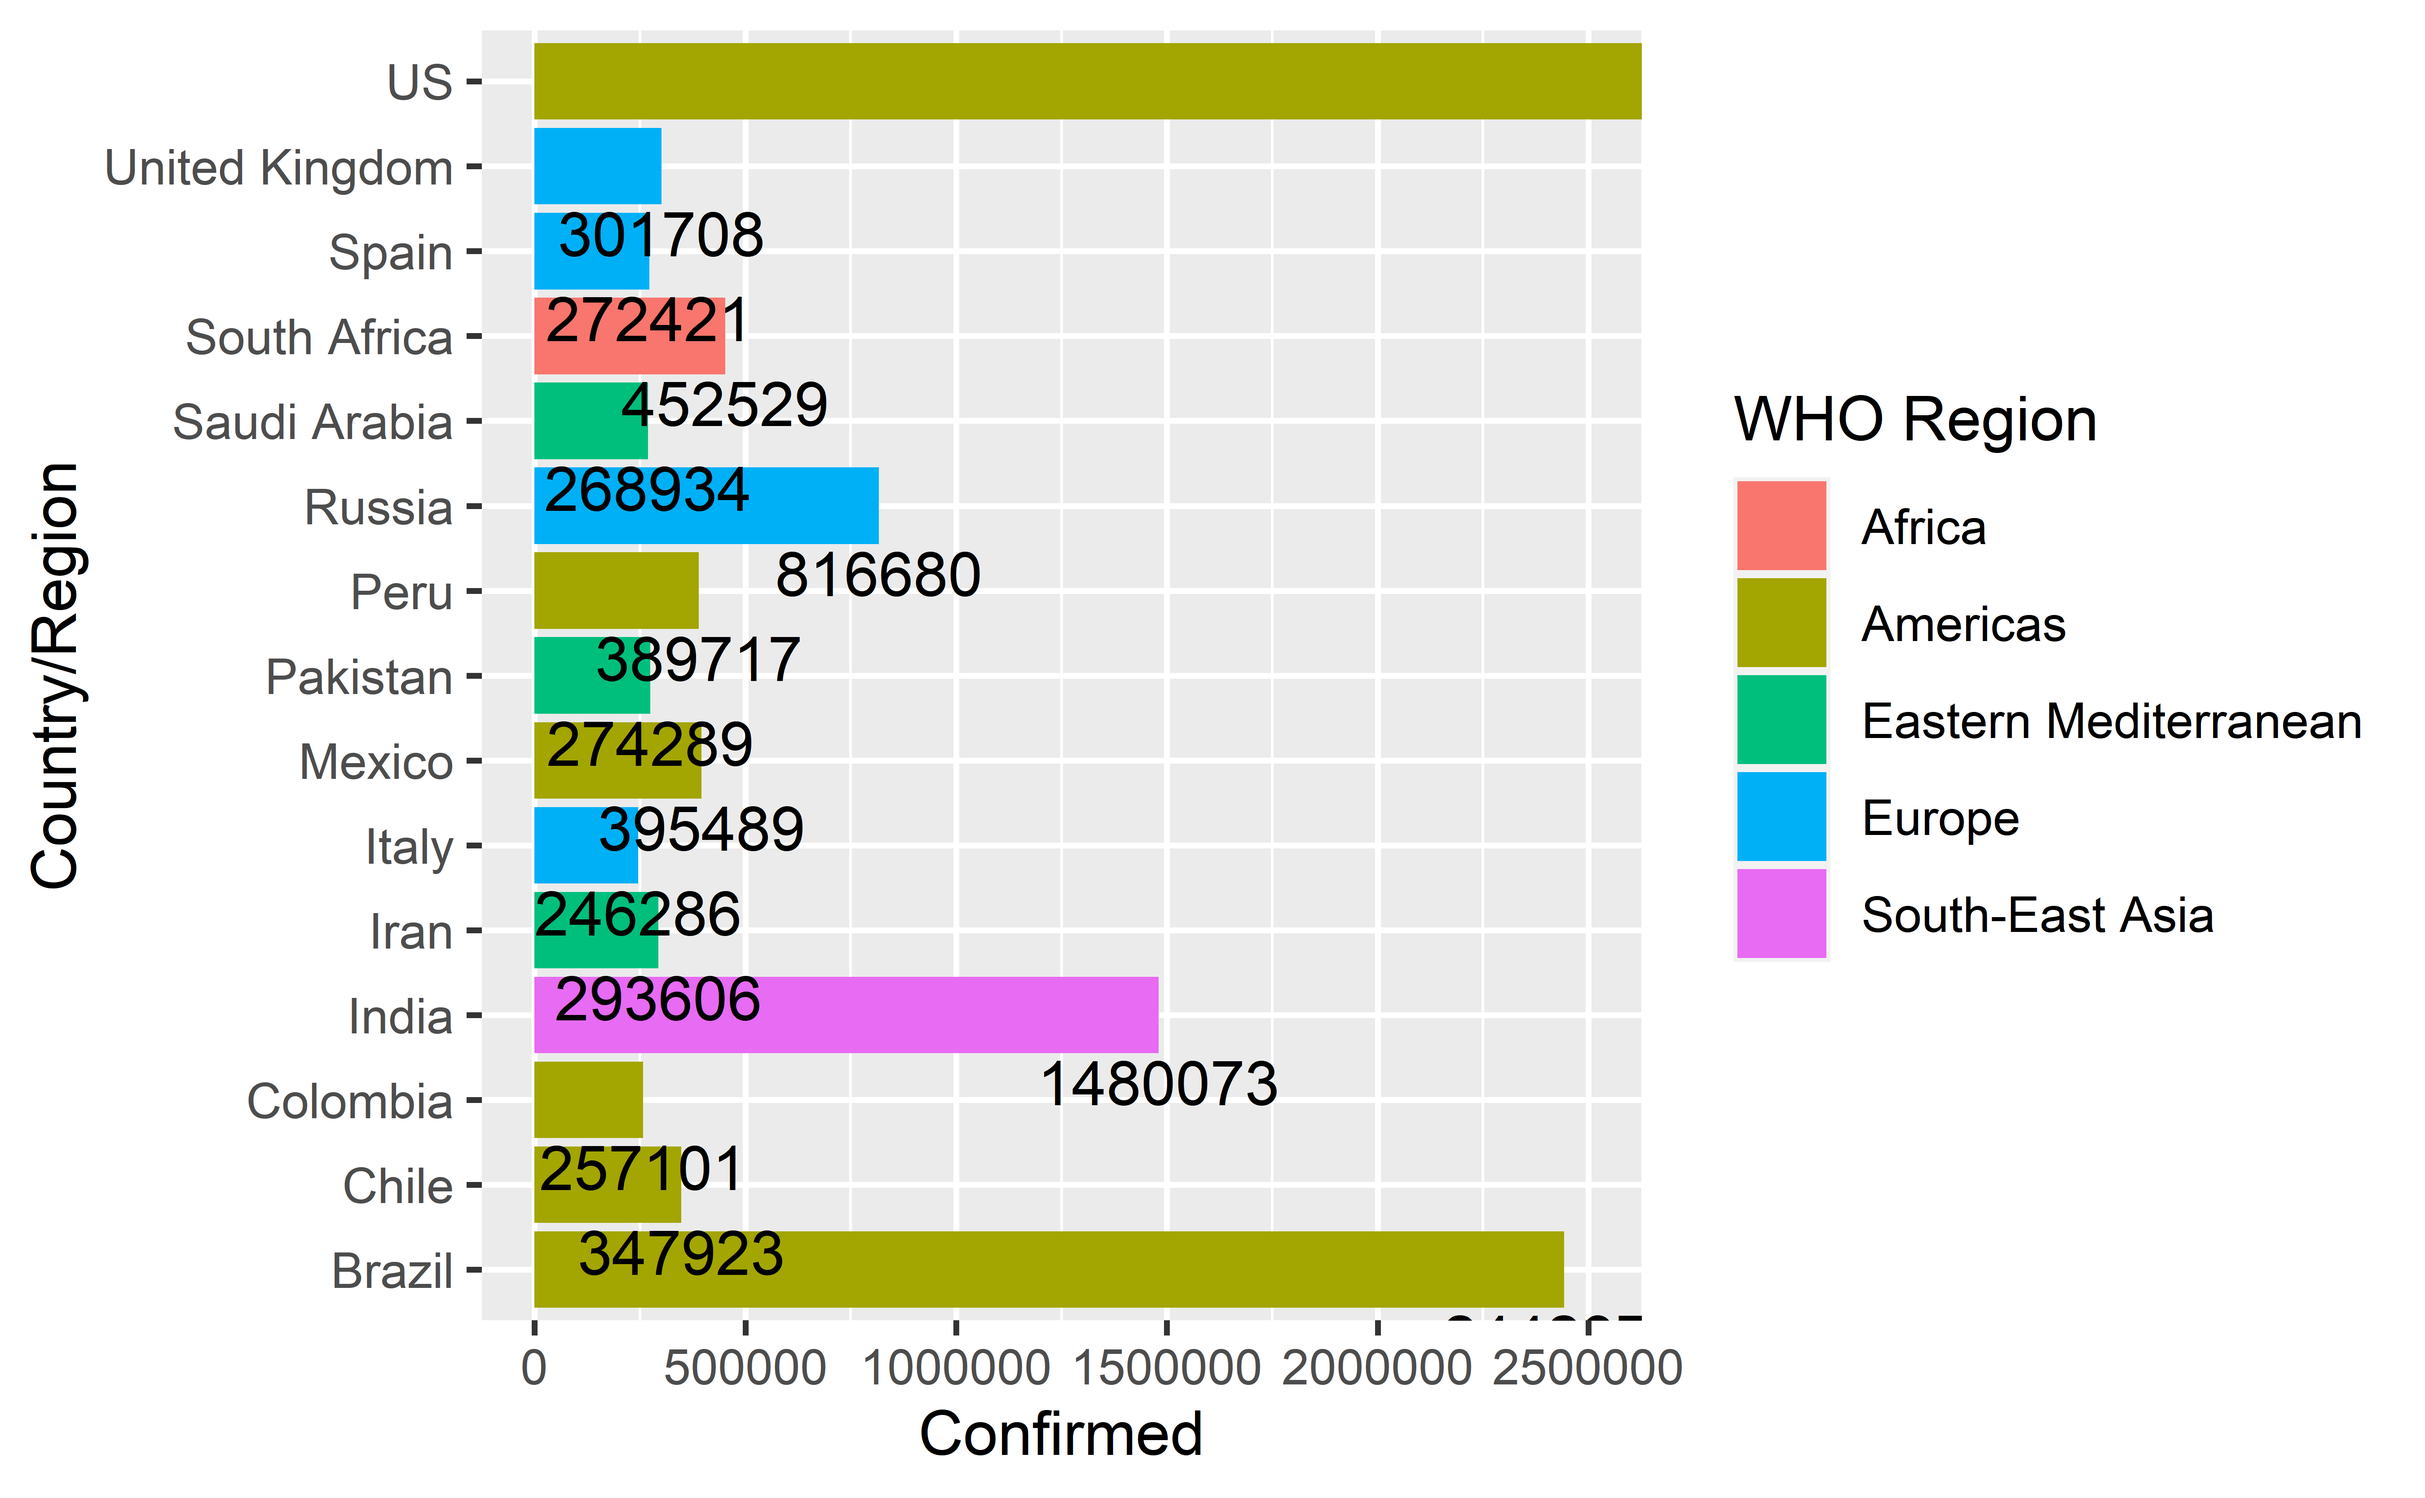
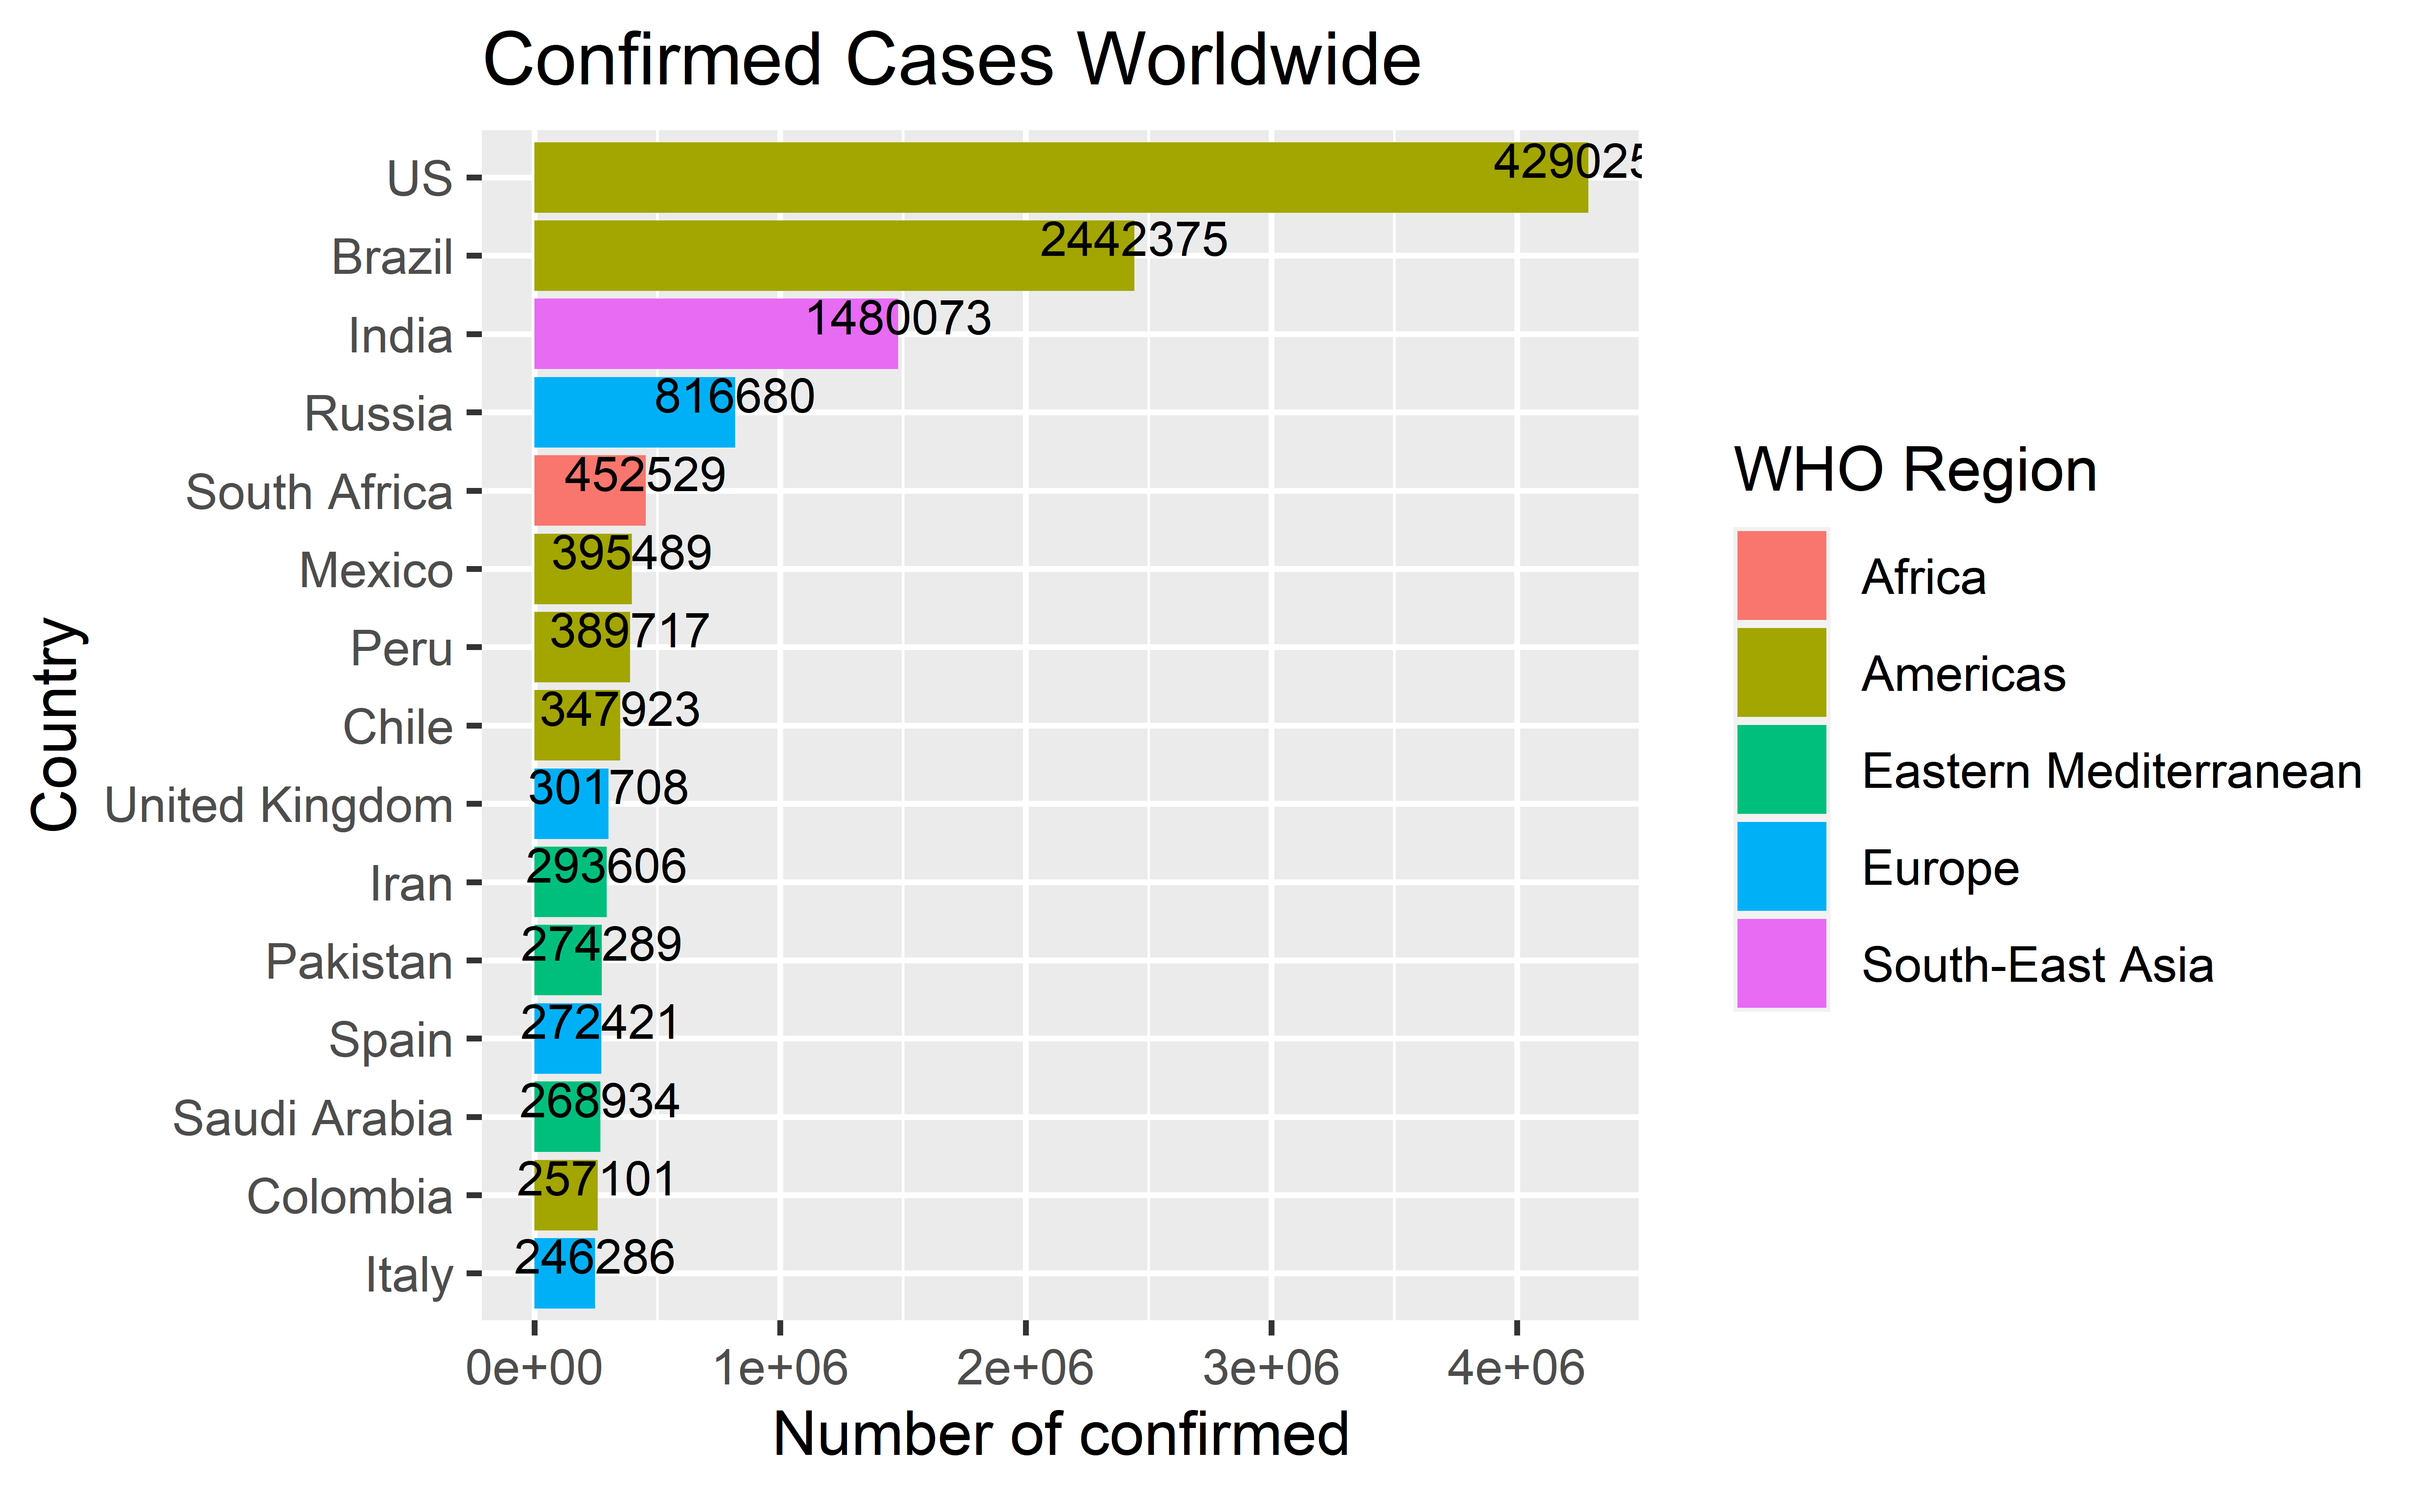
3

diff --git a/presentation.html b/presentation.html
@@ -4,7 +4,7 @@
     <title>COVID-19</title>
     <meta charset="utf-8" />
     <meta name="author" content="Du Shi,Zhe Xue,Kunning Zhang,Zhaojun Meng,Wenhui Zhang" />
-    <meta name="date" content="2022-11-24" />
+    <meta name="date" content="2022-11-25" />
     <script src="libs/header-attrs-2.18/header-attrs.js"></script>
     <link rel="stylesheet" href="xaringan-themer.css" type="text/css" />
   </head>
@@ -22,7 +22,7 @@ class: center, middle, inverse, title-slide
 ### University of Edinburgh
 ]
 .date[
-### 2022-11-24
+### 2022-11-25
 ]
 
 ---
@@ -83,18 +83,13 @@ From this graph,it is clear that COVID-19 began to spread in the world in April 
 ---
 
 class: inverse, middle, center
+#1.
 
 ---
 
-# xaringan
+# Top 15 countries 
+&lt;img src="presentation_files/figure-html/unnamed-chunk-4-1.png" width="80%" /&gt;
 
-- The presentation is created using the `xaringan` package
-
-- Use `---` to separate slides and `--` for incremental builds
-
---
-
-- Like this
 
 ---
 
@@ -139,7 +134,7 @@ or text in two columns `\(^*\)`
 - goes here
 ]
 .pull-right[
-&lt;img src="presentation_files/figure-html/unnamed-chunk-4-1.png" width="100%" /&gt;
+&lt;img src="presentation_files/figure-html/unnamed-chunk-5-1.png" width="100%" /&gt;
 ]
 
 ---
